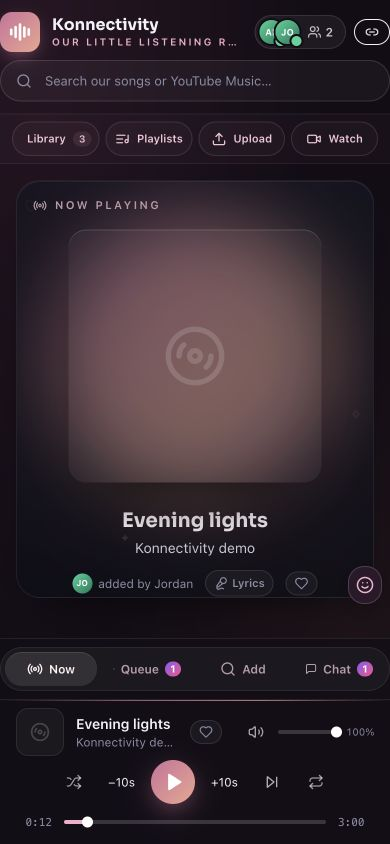
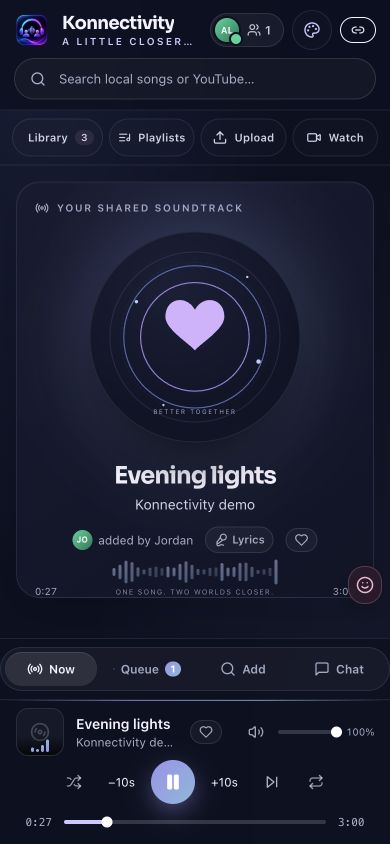
Introduce Moonlight themes, romantic Lottie artwork and a calmer responsive player

diff --git a/app/globals.css b/app/globals.css
@@ -1083,3 +1083,95 @@ html { scroll-behavior: smooth; }
 .sw-video-link-form button { display:flex; align-items:center; gap:6px; flex-shrink:0; border-radius:12px; background:#d086a8; color:#1c121b; padding:9px 12px; font-size:12px; font-weight:600; }
 @media(max-width:1023px) { .sw-reactions-open { margin-right:44px; } }
 .sw-sync-message { flex-shrink:0; padding:9px 16px; border-bottom:1px solid #f0b9ca20; color:#e9b6cc; background:#b56b9510; text-align:center; font-size:12px; }
+
+/* Konnectivity / Moonlight. Soft depth, clear controls, quiet movement. */
+:root { --kn-panel-a:#171b31; --kn-panel-b:#101426; --kn-border:#a4a9e521; --kn-glow:#8899ee16; --kn-gold:#d7c29c; }
+:root[data-room-theme="moonlight"], :root:not([data-room-theme]) {
+ --accent:#9b93ed; --accent-2:#d1c6ff; --accent-3:#88b8dc;
+}
+.sw-couple {
+ --bg:#0b1020; --bg-2:#12182c; --surface:#192039b8;
+ --ink:#f5f3ff; --ink-soft:#d0d3e6; --muted:#a1a9c5;
+ --accent:#9b93ed; --accent-2:#d1c6ff; --accent-3:#88b8dc;
+ --art-1:var(--accent)!important; --art-2:var(--accent-3)!important;
+ --field:#c0c9ff09; --soft-border:var(--kn-border);
+ background:radial-gradient(ellipse at 8% 0%,#6473ca22,transparent 48%),radial-gradient(ellipse at 95% 90%,#8473ae14,transparent 55%),var(--bg);
+}
+:root[data-room-theme="rosewood"] { --kn-panel-a:#2b1c2a; --kn-panel-b:#1c1421; --kn-border:#e7a9c526; --kn-glow:#e6a1c215; --accent:#d18bab; --accent-2:#f0c5d4; --accent-3:#d6a28e; }
+:root[data-room-theme="rosewood"] .sw-couple { --bg:#170f1a; --bg-2:#241727; --surface:#302033b8; --ink:#fff3f3; --ink-soft:#e8ced9; --muted:#bca2b2; --accent:#d18bab; --accent-2:#f0c5d4; --accent-3:#d6a28e; background:radial-gradient(ellipse at 10% 0%,#aa527a20,transparent 50%),radial-gradient(ellipse at 95% 90%,#e6a28e0d,transparent 55%),var(--bg); }
+:root[data-room-theme="candlelight"] { --kn-panel-a:#2b241f; --kn-panel-b:#1d1917; --kn-border:#dcc4a229; --kn-glow:#e0ad7015; --accent:#cea46f; --accent-2:#eed4a8; --accent-3:#be8b80; }
+:root[data-room-theme="candlelight"] .sw-couple { --bg:#15120f; --bg-2:#221d18; --surface:#322a23b8; --ink:#fff6e8; --ink-soft:#e4d6c4; --muted:#bcae9a; --accent:#cea46f; --accent-2:#eed4a8; --accent-3:#be8b80; background:radial-gradient(ellipse at 8% 0%,#b1814520,transparent 48%),radial-gradient(ellipse at 95% 90%,#a9645710,transparent 55%),var(--bg); }
+:root[data-room-theme] { --ink:#f5f3ff; --ink-soft:#d0d3e6; --muted:#a8adc6; --field:#ffffff08; --soft-border:var(--kn-border); --surface:var(--kn-panel-a); --bg:var(--kn-panel-b); }
+.sw-couple header { background:color-mix(in srgb,var(--bg) 85%,transparent); padding-top:14px; padding-bottom:14px; }
+.sw-couple header h1 { letter-spacing:-.035em; font-size:20px; }
+.sw-couple header img[aria-hidden] { width:42px; height:42px; }
+.sw-couple .sw-panel { background:linear-gradient(145deg,color-mix(in srgb,var(--kn-panel-a) 93%,transparent),color-mix(in srgb,var(--kn-panel-b) 96%,transparent)); border:1px solid var(--kn-border); box-shadow:inset 0 1px #ffffff04,0 12px 40px #00000014; backdrop-filter:none; }
+.sw-couple .sw-label { letter-spacing:.17em; font-size:10px; color:var(--muted); }
+.sw-couple .sw-love-toolbar { border-color:var(--kn-border); background:transparent; padding:10px 20px; gap:8px; }
+.sw-couple .sw-love-toolbar button { color:var(--ink-soft); border-color:var(--kn-border); background:#ffffff03; min-height:38px; padding:8px 15px; font-size:11px; letter-spacing:.015em; }
+.sw-couple .sw-love-toolbar button:hover { background:var(--accent-soft); border-color:var(--accent); }
+.sw-couple .sw-love-caption { color:var(--muted); font-style:normal; font-size:11px; letter-spacing:.02em; }
+.sw-couple .sw-love-stars { display:none; }
+.sw-couple .sw-art { border-radius:50%; border:1px solid var(--kn-border); background:var(--kn-panel-b); overflow:hidden; }
+.sw-couple .sw-art-glow::before { opacity:.18; filter:blur(35px); }
+.sw-couple .sw-art-playing { animation:none; }
+.sw-couple .kn-now-card { position:relative; background:radial-gradient(ellipse at 50% 32%,var(--kn-glow),transparent 62%),linear-gradient(145deg,var(--kn-panel-a),var(--kn-panel-b)); }
+.sw-couple .kn-now-card h2 { font-size:23px; letter-spacing:-.04em; line-height:1.25; }
+.sw-couple .sw-bubble { border:1px solid var(--kn-border); background:#ffffff06; line-height:1.65; }
+.sw-couple .sw-bubble-own { background:color-mix(in srgb,var(--accent) 20%,transparent); }
+.sw-couple .sw-love-eyebrow,.sw-couple .sw-library-icon { color:var(--accent-2); }
+.sw-love-library { background:linear-gradient(145deg,var(--kn-panel-a),var(--kn-panel-b))!important; --accent:inherit; --accent-2:inherit; --accent-3:inherit; --muted:inherit; --ink:inherit; border-color:var(--kn-border); }
+.sw-glass-strong,.kn-appearance-dialog { background:linear-gradient(145deg,var(--kn-panel-a),var(--kn-panel-b))!important; border-color:var(--kn-border); color:var(--ink); }
+.kn-appearance-button { display:flex; align-items:center; justify-content:center; gap:7px; min-width:40px; height:40px; padding:0 12px; border:1px solid var(--kn-border); border-radius:99px; color:var(--accent-2); background:#ffffff03; cursor:pointer; }
+.kn-appearance-button span { font-size:11px; }
+.kn-appearance-button:hover { background:#ffffff0b; }
+.kn-eyebrow { display:flex; align-items:center; gap:7px; font-size:9px; letter-spacing:.16em; color:var(--accent-2); }
+.kn-theme-grid { display:grid; grid-template-columns:repeat(3,minmax(0,1fr)); gap:10px; margin:24px 0; }
+.kn-theme-card { min-width:0; text-align:left; padding:10px; border:1px solid var(--kn-border); border-radius:16px; cursor:pointer; }
+.kn-theme-card[aria-pressed="true"] { outline:2px solid var(--accent-2); outline-offset:3px; }
+.kn-theme-card strong { display:block; margin-top:10px; font-size:12px; color:#f7f4ff; }
+.kn-theme-card small { display:block; font-size:10px; line-height:1.6; color:#bec1d2; margin-top:3px; }
+.kn-theme-preview { display:flex; justify-content:space-between; align-items:center; height:58px; border-radius:10px; padding:12px; }
+.kn-theme-moonlight { background:#11182b; }.kn-theme-moonlight .kn-theme-preview { background:linear-gradient(135deg,#283866,#756594); color:#e0d9ff; }
+.kn-theme-rosewood { background:#261a25; }.kn-theme-rosewood .kn-theme-preview { background:linear-gradient(135deg,#633c55,#ab7e82); color:#ffe0eb; }
+.kn-theme-candlelight { background:#262019; }.kn-theme-candlelight .kn-theme-preview { background:linear-gradient(135deg,#69513b,#9d7a54); color:#fff0cf; }
+.kn-setting-row { display:flex; align-items:center; justify-content:space-between; gap:18px; padding:18px 0; border-top:1px solid var(--kn-border); }
+.kn-setting-row strong { font-size:13px; }.kn-setting-row p { font-size:11px; color:var(--muted); line-height:1.7; margin-top:5px; }
+.kn-setting-column { align-items:stretch; flex-direction:column; gap:12px; }
+.kn-switch { flex-shrink:0; width:42px; height:26px; border-radius:30px; border:1px solid var(--kn-border); background:#ffffff0d; padding:3px; }
+.kn-switch span { display:block; height:18px; width:18px; border-radius:50%; background:#d6d1e8; transition:transform .2s; }
+.kn-switch[aria-checked="true"] { background:var(--accent); }.kn-switch[aria-checked="true"] span { transform:translateX(15px); background:white; }
+.kn-choice-group { display:flex; gap:6px; padding:4px; background:#00000020; border-radius:14px; }
+.kn-choice-group button { flex:1; font-size:12px; padding:9px; border-radius:10px; color:var(--muted); }.kn-choice-group button[aria-pressed="true"] { background:#ffffff0e; color:var(--accent-2); }
+.kn-together-art { position:relative; display:grid; place-items:center; width:100%; height:100%; background:radial-gradient(circle at 40% 25%,var(--kn-glow),transparent 65%),var(--kn-panel-b); }
+.kn-lottie { width:86%; height:86%; position:absolute; inset:7%; }
+.kn-heart-fallback { color:var(--accent-2); opacity:.8; }
+.kn-record-caption { position:absolute; bottom:12%; left:0; right:0; text-align:center; font-size:6px; letter-spacing:.26em; color:var(--muted); }
+.kn-orbit-ring { position:absolute; inset:9%; border-radius:50%; border:1px solid var(--kn-border); }.kn-orbit-ring-2 { inset:14%; border-style:dashed; opacity:.4; }
+.kn-visualizer { display:flex; align-items:center; justify-content:center; gap:3px; height:27px; margin:16px auto 0; max-width:190px; flex-shrink:0; }
+.kn-visualizer span { width:3px; border-radius:4px; height:var(--bar-height); background:linear-gradient(var(--accent-2),var(--accent-3)); transform:scaleY(.4); opacity:.55; }
+.kn-visualizer.is-playing span { animation:kn-wave 1.8s ease-in-out infinite alternate; animation-delay:var(--bar-delay); }
+@keyframes kn-wave { 0% { transform:scaleY(.3);opacity:.4; } 100% { transform:scaleY(1);opacity:.9; } }
+:root[data-room-visualizer="off"] .kn-visualizer { display:none; }
+:root[data-room-visualizer="orbit"] .kn-visualizer { height:14px; opacity:.55; }
+:root[data-room-motion="off"] .kn-visualizer span,:root[data-room-motion="off"] .sw-wave-playing>span,:root[data-room-motion="off"] .sw-eq>span { animation:none!important; }
+.sw-couple button:focus-visible,.sw-couple input:focus-visible { outline:2px solid var(--accent-2); outline-offset:3px; }
+@media(max-width:767px) { .kn-appearance-button { padding:0; width:40px; }.kn-appearance-button span { display:none; }.sw-couple header { padding:10px 14px; }.sw-couple header h1 { font-size:18px; }.sw-couple header img[aria-hidden] { width:36px;height:36px; }.sw-couple .sw-love-toolbar { padding:8px 12px;gap:6px; }.sw-couple .sw-love-toolbar button { padding:7px 8px;min-height:38px; }.sw-couple .kn-now-card h2 { font-size:24px; }.kn-visualizer { margin-top:12px; }.sw-couple .sw-art-glow { max-width:min(270px,32dvh); } }
+@media(max-width:380px) { .kn-theme-grid { gap:6px; }.kn-theme-card { padding:7px; }.kn-theme-card small { font-size:9px; } }
+@media(prefers-reduced-motion:reduce) { .kn-visualizer span { animation:none!important; } }
+
+.sw-couple { --accent-soft:color-mix(in srgb,var(--accent) 15%,transparent); }
+.sw-couple .sw-art-glow { max-width:min(260px,31dvh); }
+.kn-track-time { display:flex; align-items:center; justify-content:space-between; gap:8px; margin-top:8px; font-size:10px; color:var(--muted); font-variant-numeric:tabular-nums; }
+.kn-track-time span:nth-child(2) { font-size:7px; letter-spacing:.16em; opacity:.8; }
+.sw-couple .kn-queue-row { flex-wrap:wrap; gap:8px; padding:12px 8px; border-bottom:1px solid var(--kn-border); }
+.sw-couple .kn-queue-row>.kn-track-info { flex:1 1 calc(100% - 110px); }
+.sw-couple .kn-queue-row>.kn-track-trailing { flex:1; margin-left:52px; gap:7px; }
+.sw-couple .kn-queue-row>.kn-track-actions { margin-left:auto; opacity:1; }
+@media(max-height:660px) { .sw-couple .sw-art-glow { max-width:150px; }.kn-visualizer { margin-top:8px; } }
+.kn-appearance-dialog { max-height:calc(100dvh - 32px); overflow-y:auto; }
+@media(max-width:767px) { .sw-couple .sw-art-glow { max-width:min(220px,25dvh); }.sw-couple .kn-now-card { padding:18px; }.sw-couple .kn-now-card .mt-6 { margin-top:18px; }.kn-track-time { margin-top:5px; } }
+
+@media(max-width:767px) { .sw-couple .sw-reaction-dock { top:42%; bottom:auto; right:4px; } }
+
+:root[data-room-visibility="hidden"] .kn-visualizer span { animation-play-state:paused!important; }

diff --git a/components/NowPlaying.tsx b/components/NowPlaying.tsx
@@ -8,6 +8,7 @@ import { Avatar } from "@/components/ui/avatar";
 import { SectionHeader } from "@/components/ui/panel";
 import { CountButton } from "@/components/ui/track-row";
 import { PresenceAvatar } from "@/components/PresenceCard";
+import TogetherAnimation from "./TogetherAnimation";
 import Lyrics from "@/components/Lyrics";
 
 /**
@@ -153,14 +154,14 @@ export default function NowPlaying({
     // exactly then, so a crowded room degrades instead of losing the artwork.
     <section
       className={cn(
-        "sw-panel sw-scroll flex min-h-0 flex-col overflow-y-auto p-4 sm:p-6 [justify-content:safe_center]",
+        "kn-now-card sw-panel sw-scroll flex min-h-0 flex-col overflow-y-auto p-4 sm:p-6 [justify-content:safe_center]",
         className
       )}
     >
       {/* No listener count here. The top bar carries the avatar stack at every
           width, and this panel lists everyone in full further down — a third
           copy of the same fact was what made the old panel feel crowded. */}
-      <SectionHeader icon={<Radio className="size-3.5" />} title="Now playing" />
+      <SectionHeader icon={<Radio className="size-3.5" />} title="Your shared soundtrack" />
 
       {/* Lyrics take the artwork's place rather than adding a panel: the room
           is tinted by the cover anyway, so the art is never really gone. */}
@@ -208,7 +209,7 @@ export default function NowPlaying({
             />
           ) : (
             <div className="grid size-full place-items-center bg-white/[0.04]">
-              <Disc3 className="size-16 text-white/15" />
+              <TogetherAnimation playing={isPlaying && !loading}/>
             </div>
           )}
 
@@ -277,45 +278,15 @@ export default function NowPlaying({
           </>
         ) : (
           <>
-            <h2 className="font-display text-xl font-bold text-ink">Nothing playing</h2>
-            <p className="mt-1 text-sm text-muted">Add a song to get the room started.</p>
+            <h2 className="font-display text-xl font-bold text-ink">A moment, just for you.</h2>
+            <p className="mt-1 text-sm text-muted">Find a song you love. Share it with someone you love.</p>
           </>
         )}
       </div>
 
-      {/* The phone's stand-in for the waveform — a sign of life that reads
-          instantly as "audio" and costs one line. */}
-      {current && (
-        <div className="mt-5 flex justify-center md:hidden">
-          <span className={cn("sw-eq", !isPlaying && "paused")} aria-hidden>
-            <span />
-            <span />
-            <span />
-            <span />
-            <span />
-          </span>
-        </div>
-      )}
+      {current && <div className={`kn-visualizer ${isPlaying && !loading ? 'is-playing' : ''}`} aria-hidden="true">{Array.from({length:28},(_,i)=><span key={i} style={{'--bar-height':`${8+Math.round(Math.sin(i*.65)**2*18)}px`,'--bar-delay':`${-(i%9)*.17}s`} as React.CSSProperties}/>)}</div>}
 
-      {/* Waveform + elapsed. Doubles as the host's scrubber.
-          Desktop only: on a phone this panel and the player's own scrubber are
-          a hundred pixels apart, and the height it costs is the height the
-          artwork needs to stay the focal point. */}
-      {current && (
-        <div className="mt-6 hidden shrink-0 md:block">
-          <Waveform
-            seed={current.videoId}
-            progress={progress}
-            playing={isPlaying && !loading}
-            canSeek={canSeek}
-            onSeek={(ratio) => onSeek(ratio * dur)}
-          />
-          <div className="mt-2 flex items-center justify-between font-mono text-[11px] tabular-nums text-muted">
-            <span>{fmt(position)}</span>
-            <span>{fmt(dur)}</span>
-          </div>
-        </div>
-      )}
+      {current && <div className="kn-track-time"><span>{fmt(position)}</span><span>ONE SONG. TWO WORLDS CLOSER.</span><span>{fmt(dur)}</span></div>}
 
       {/* Who's here. The point of the app is that these people hear the same
           thing at the same moment, so it's worth showing rather than counting.

diff --git a/components/Room.tsx b/components/Room.tsx
@@ -2,6 +2,8 @@
 
 import { useEffect, useRef, useState, useCallback, useMemo } from "react";
 import dynamic from "next/dynamic";
+import AppearanceSettings from "./AppearanceSettings";
+import {useAppearance} from "@/hooks/useAppearance";
 import { io, type Socket } from "socket.io-client";
 import {
   Activity as ActivityIcon,
@@ -128,6 +130,7 @@ export default function Room({ code, asHost }: { code: string; asHost: boolean }
   const [dl, setDl] = useState<Record<string, number>>({});
   const [tab, setTab] = useState<Tab>("now");
   const [center, setCenter] = useState<CenterView>("queue");
+  useAppearance();
   const [pane, setPane] = useState<SidePane>("chat");
   const [unread, setUnread] = useState(0);
   const [helpOpen, setHelpOpen] = useState(false);
@@ -809,10 +812,10 @@ export default function Room({ code, asHost }: { code: string; asHost: boolean }
       <main className="sw-couple mx-auto flex min-h-[100dvh] w-full flex-col items-center justify-center px-6">
         <Panel className="w-full max-w-md text-center">
           <div className="mb-2 text-[11px] font-semibold tracking-eyebrow text-[var(--accent-2)] uppercase">
-            LISTEN TOGETHER
+            SOMEWHERE ONLY WE KNOW
           </div>
           <h1 className="mb-1 font-display text-2xl font-bold text-ink">Konnectivity</h1>
-          <p className="mb-6 text-sm text-muted">Your friends. Your music. One shared room.</p>
+          <p className="mb-6 text-sm text-muted">Press play. Feel a little closer.</p>
 
           {/* A first look at the avatar this name gets — the same one that will
               sit beside every track you queue and every line you type. */}
@@ -916,7 +919,7 @@ export default function Room({ code, asHost }: { code: string; asHost: boolean }
 
             </div>
             <div className="truncate text-[10px] font-semibold tracking-eyebrow text-[var(--accent-2)] uppercase">
-              Our little listening room
+              A little closer, one song at a time
             </div>
           </div>
         </div>
@@ -964,6 +967,7 @@ export default function Room({ code, asHost }: { code: string; asHost: boolean }
             />
           )}
 
+          <AppearanceSettings />
           <Button
             className="hidden sm:inline-flex"
             variant="ghost"
@@ -997,7 +1001,7 @@ export default function Room({ code, asHost }: { code: string; asHost: boolean }
       </header>
 
       <nav className="sw-love-toolbar" aria-label="Room music">
-        <span className="sw-love-caption"><Heart size={12} fill="currentColor" /> A shared soundtrack.</span>
+        <span className="sw-love-caption"><Heart size={12} fill="currentColor" /> Your world. A shared soundtrack.</span>
         <button onClick={() => openLibrary("songs")}><Music2 size={15} />Library <span className="sw-library-count">{library.length}</span></button>
         <button onClick={() => openLibrary("playlists")}><ListMusic size={15} />Playlists</button>
         <button onClick={() => openLibrary("upload")}><Upload size={15} />Upload</button>

diff --git a/components/AppearanceSettings.tsx b/components/AppearanceSettings.tsx
@@ -1,0 +1,7 @@
+"use client";
+import {useState} from 'react';
+import {Check,Palette,Moon,Heart,Flame,Sparkles} from 'lucide-react';
+import {Dialog,DialogContent,DialogTitle,DialogDescription} from './ui/dialog';
+import {useAppearance} from '@/hooks/useAppearance';
+const themes=[{id:'moonlight',name:'Moonlight',note:'Indigo skies & lilac dreams',icon:Moon},{id:'rosewood',name:'Rosewood',note:'Blush petals & warm plum',icon:Heart},{id:'candlelight',name:'Candlelight',note:'Soft amber & espresso',icon:Flame}] as const;
+export default function AppearanceSettings(){const[open,setOpen]=useState(false);const prefs=useAppearance();return <><button type="button" className="kn-appearance-button" aria-label="Appearance and themes" onClick={()=>setOpen(true)} title="Make this space yours"><Palette size={17}/><span>Appearance</span></button><Dialog open={open} onOpenChange={setOpen}><DialogContent className="kn-appearance-dialog !max-w-xl"><p className="kn-eyebrow"><Sparkles size={13}/> A SPACE THAT FEELS LIKE YOU</p><DialogTitle className="mt-2 font-display text-2xl font-bold">Set the mood.</DialogTitle><DialogDescription className="mt-2 text-sm text-muted">A little atmosphere for your shared soundtrack. These choices stay on this device.</DialogDescription><div className="kn-theme-grid" role="group" aria-label="Color theme">{themes.map(({id,name,note,icon:Icon})=><button key={id} type="button" className={`kn-theme-card kn-theme-${id}`} aria-pressed={prefs.theme===id} onClick={()=>prefs.update({theme:id})}><span className="kn-theme-preview"><Icon size={23}/>{prefs.theme===id&&<Check size={15}/>}</span><strong>{name}</strong><small>{note}</small></button>)}</div><div className="kn-setting-row"><div><strong>Gentle motion</strong><p>Soft loops and transitions. Respects reduced motion.</p></div><button role="switch" aria-label="Gentle motion" aria-checked={prefs.motion} className="kn-switch" onClick={()=>prefs.update({motion:!prefs.motion})}><span/></button></div><div className="kn-setting-row kn-setting-column"><div><strong>Ambient visualizer</strong><p>Decorative motion while music plays, without changing your audio.</p></div><div className="kn-choice-group" role="group" aria-label="Ambient visualizer">{(['orbit','wave','off'] as const).map(id=><button key={id} type="button" aria-pressed={prefs.visualizer===id} onClick={()=>prefs.update({visualizer:id})}>{id==='orbit'?'Heart orbit':id==='wave'?'Soft waves':'Off'}</button>)}</div></div></DialogContent></Dialog></>}

diff --git a/components/ui/track-row.tsx b/components/ui/track-row.tsx
@@ -28,6 +28,7 @@ export function Cover({
   /** Overlay content — a play affordance, a caching spinner. */
   children?: React.ReactNode;
 }) {
+  const [failed, setFailed] = React.useState<string | null>(null);
   const box = size === "sm" ? "size-10" : size === "lg" ? "size-14" : "size-12";
   return (
     <div
@@ -37,9 +38,9 @@ export function Cover({
         className
       )}
     >
-      {src ? (
+      {src && failed !== src ? (
         // eslint-disable-next-line @next/next/no-img-element
-        <img src={src} alt={alt} loading="lazy" className="size-full object-cover" />
+        <img src={src} alt={alt} onError={() => setFailed(src)} loading="lazy" className="size-full object-cover" />
       ) : (
         <div className="grid size-full place-items-center">
           <Disc3 className="size-5 text-white/20" />
@@ -206,7 +207,7 @@ export function TrackRow({
 
       <Cover src={art} size="sm" />
 
-      <div className="min-w-0 flex-1">
+      <div className="kn-track-info min-w-0 flex-1">
         <div className="truncate text-sm font-medium text-ink" title={title}>
           {title}
         </div>
@@ -239,10 +240,10 @@ export function TrackRow({
         </div>
       </div>
 
-      {trailing && <div className="flex shrink-0 items-center gap-1.5">{trailing}</div>}
+      {trailing && <div className="kn-track-trailing flex shrink-0 items-center gap-1.5">{trailing}</div>}
 
       {actions && (
-        <div className="flex shrink-0 items-center gap-1 opacity-0 transition-opacity duration-200 ease-[var(--ease)] group-focus-within:opacity-100 group-hover:opacity-100 max-md:opacity-100">
+        <div className="kn-track-actions flex shrink-0 items-center gap-1 opacity-0 transition-opacity duration-200 ease-[var(--ease)] group-focus-within:opacity-100 group-hover:opacity-100 max-md:opacity-100">
           {actions}
         </div>
       )}

diff --git a/components/TogetherAnimation.tsx b/components/TogetherAnimation.tsx
@@ -1,0 +1,11 @@
+"use client";
+import {useEffect,useRef,useState} from 'react';
+import type {AnimationItem} from 'lottie-web';
+import {Heart} from 'lucide-react';
+import {useAppearance} from '@/hooks/useAppearance';
+export default function TogetherAnimation({playing=false}:{playing?:boolean}){
+ const host=useRef<HTMLDivElement>(null),animation=useRef<AnimationItem|null>(null);const[loaded,setLoaded]=useState(false);const prefs=useAppearance();
+ useEffect(()=>{let disposed=false;import('lottie-web').then(({default:lottie})=>{if(disposed||!host.current)return;const item=lottie.loadAnimation({container:host.current,renderer:'svg',loop:true,autoplay:false,path:'/animations/together.json',rendererSettings:{progressiveLoad:true}});animation.current=item;item.addEventListener('DOMLoaded',()=>{if(!disposed){item.goToAndStop(15,true);setLoaded(true);}});item.addEventListener('data_failed',()=>{if(!disposed)setLoaded(false);});}).catch(()=>{});return()=>{disposed=true;animation.current?.destroy();animation.current=null;};},[]);
+ useEffect(()=>{const query=window.matchMedia('(prefers-reduced-motion: reduce)');const sync=()=>{const a=animation.current;if(!a)return;if(loaded&&playing&&prefs.motion&&prefs.visualizer==='orbit'&&!query.matches&&document.visibilityState==='visible')a.play();else a.pause();};sync();query.addEventListener('change',sync);document.addEventListener('visibilitychange',sync);return()=>{query.removeEventListener('change',sync);document.removeEventListener('visibilitychange',sync);};},[loaded,playing,prefs.motion,prefs.visualizer]);
+ return <div className="kn-together-art" aria-hidden="true"><div className="kn-orbit-ring"/><div className="kn-orbit-ring kn-orbit-ring-2"/><div ref={host} className="kn-lottie"/>{!loaded&&<Heart className="kn-heart-fallback" size={42}/>}<span className="kn-record-caption">BETTER TOGETHER</span></div>;
+}

diff --git a/hooks/useAppearance.ts b/hooks/useAppearance.ts
@@ -1,0 +1,13 @@
+"use client";
+import {useEffect,useState} from 'react';
+export type Appearance={theme:'moonlight'|'rosewood'|'candlelight';motion:boolean;visualizer:'orbit'|'wave'|'off'};
+const DEFAULT:Appearance={theme:'moonlight',motion:true,visualizer:'orbit'};
+const KEY='konnectivity_appearance';
+function read():Appearance{try{const v=JSON.parse(localStorage.getItem(KEY)||'{}');return{theme:['moonlight','rosewood','candlelight'].includes(v.theme)?v.theme:DEFAULT.theme,motion:typeof v.motion==='boolean'?v.motion:true,visualizer:['orbit','wave','off'].includes(v.visualizer)?v.visualizer:'orbit'};}catch{return DEFAULT;}}
+function apply(v:Appearance){const root=document.documentElement;root.dataset.roomTheme=v.theme;root.dataset.roomMotion=v.motion?'on':'off';root.dataset.roomVisualizer=v.visualizer;}
+export function useAppearance(){
+ const[value,setValue]=useState<Appearance>(DEFAULT);
+ useEffect(()=>{const sync=(e?:Event)=>{const v=(e as CustomEvent<Appearance>)?.detail||read();setValue(v);apply(v);};const visibility=()=>{document.documentElement.dataset.roomVisibility=document.visibilityState;};sync();visibility();document.addEventListener('visibilitychange',visibility);window.addEventListener('konnectivity:appearance',sync);window.addEventListener('storage',sync);return()=>{document.removeEventListener('visibilitychange',visibility);window.removeEventListener('konnectivity:appearance',sync);window.removeEventListener('storage',sync);};},[]);
+ const update=(patch:Partial<Appearance>)=>{const next={...value,...patch};setValue(next);apply(next);try{localStorage.setItem(KEY,JSON.stringify(next));}catch{}window.dispatchEvent(new CustomEvent('konnectivity:appearance',{detail:next}));};
+ return{...value,update};
+}

diff --git a/components/QueuePanel.tsx b/components/QueuePanel.tsx
@@ -115,6 +115,7 @@ function QueuePanel({
 
             return (
               <TrackRow
+                className="kn-queue-row"
                 key={key}
                 index={exiting ? undefined : i + 1}
                 art={t.thumbnail}

diff --git a/docs/USER_GUIDE.md b/docs/USER_GUIDE.md
@@ -33,3 +33,10 @@ Use Chat to send text or attach JPEG, PNG, GIF or WebP images (up to **8 MB**). 
 No manual latency input is required. Devices calibrate against the server, correct drift and recalibrate on reconnect or tab return. The Sound settings dialog shows automatic status and measured latency where available. Brief seeking and foreground recovery have a grace period to avoid pause loops. A background listener cannot hold the room while its browser is suspended; it catches up when it returns. If a foreground listener continues buffering, the room waits briefly and schedules a common restart. After about 20 seconds a blocked device no longer holds everyone; it catches up after recovery. A manual pause remains paused.
 
 The app cannot remove network outages, YouTube ads or unreported Bluetooth latency. Keep the tab active when possible. See [troubleshooting](TROUBLESHOOTING.md).
+
+
+## Themes and atmosphere
+
+Open **Appearance** (palette icon on a phone) to switch between **Moonlight**, **Rosewood** and **Candlelight**. Moonlight is the default. Choices are saved on your device across rooms. Each listener can choose their own look.
+
+Choose **Heart orbit**, **Soft waves** or **Off** for the ambient visualizer. These are decorative animations, not an audio spectrum analyzer. They do not process or change playback. **Gentle motion** disables continuous decorative movement, and system reduced-motion preferences are respected. The local Lottie artwork pauses when music is paused or the tab is hidden.

diff --git a/README.md b/README.md
@@ -36,6 +36,7 @@ The upstream copyright notice and **PolyForm Noncommercial 1.0.0** license are p
 | Text and image chat | Chat while listening and share JPEG, PNG, GIF or WebP images. |
 | Reactions and presence | React to songs and see who is listening in the room. |
 | Optional AI DJ | Request music in plain English using your configured AI provider; disabled by default. |
+| Themes and atmosphere | Moonlight, Rosewood and Candlelight themes, locally hosted Lottie artwork, optional ambient visualizers and reduced-motion support. |
 | Mobile and PWA | Use a responsive interface with mobile volume controls, persistent search with All / Local library / YouTube filters and a clear button, and an installable web app. |
 | Server administration | Manage password-protected settings, optional downloader cookies and proxy configuration. |
 
@@ -108,6 +109,9 @@ Screenshots use an isolated demo instance and generated demonstration audio, not
 
 <details>
 <summary>More screenshots: library, uploads, search, image chat and automatic sync</summary>
+
+### Themes and atmosphere
+![Appearance settings](docs/screenshots/appearance.jpg)
 
 ### Saved music library
 ![Music library](docs/screenshots/library.jpg)

diff --git a/docs/VALIDATION.md b/docs/VALIDATION.md
@@ -11,3 +11,7 @@ Validated on 6 November 2026 with Node 26 on macOS. This is a local validation r
 - Upstream LICENSE retained byte for byte. No inherited Git history or configured publication remote is included.
 
 The preview was stopped after verification. This is not an independent security audit, a Docker build test or a physical phone/headphone latency certification. A fresh Internet-connected install still depends on package registries, font downloads and any selected media providers.
+
+## Moonlight interface review
+
+Production build and client synchronization checks passed after the interface redesign. All three theme buttons, local preference persistence, motion toggle and visualizer choices were checked in the browser. Lottie SVG output loaded from the local animation JSON. The 390 × 844 layout had no horizontal document overflow, and native audio continued playing during appearance checks. Updated room and appearance screenshots use only demonstration data. The ambient visualizer is decorative, not an audio spectrum measurement. No physical phone performance certification is claimed.

diff --git a/docs/third-party/lottie-web-LICENSE.md b/docs/third-party/lottie-web-LICENSE.md
@@ -1,0 +1,21 @@
+The MIT License (MIT)
+
+Copyright (c) 2015 Bodymovin
+
+Permission is hereby granted, free of charge, to any person obtaining a copy
+of this software and associated documentation files (the "Software"), to deal
+in the Software without restriction, including without limitation the rights
+to use, copy, modify, merge, publish, distribute, sublicense, and/or sell
+copies of the Software, and to permit persons to whom the Software is
+furnished to do so, subject to the following conditions:
+
+The above copyright notice and this permission notice shall be included in all
+copies or substantial portions of the Software.
+
+THE SOFTWARE IS PROVIDED "AS IS", WITHOUT WARRANTY OF ANY KIND, EXPRESS OR
+IMPLIED, INCLUDING BUT NOT LIMITED TO THE WARRANTIES OF MERCHANTABILITY,
+FITNESS FOR A PARTICULAR PURPOSE AND NONINFRINGEMENT. IN NO EVENT SHALL THE
+AUTHORS OR COPYRIGHT HOLDERS BE LIABLE FOR ANY CLAIM, DAMAGES OR OTHER
+LIABILITY, WHETHER IN AN ACTION OF CONTRACT, TORT OR OTHERWISE, ARISING FROM,
+OUT OF OR IN CONNECTION WITH THE SOFTWARE OR THE USE OR OTHER DEALINGS IN THE
+SOFTWARE.
